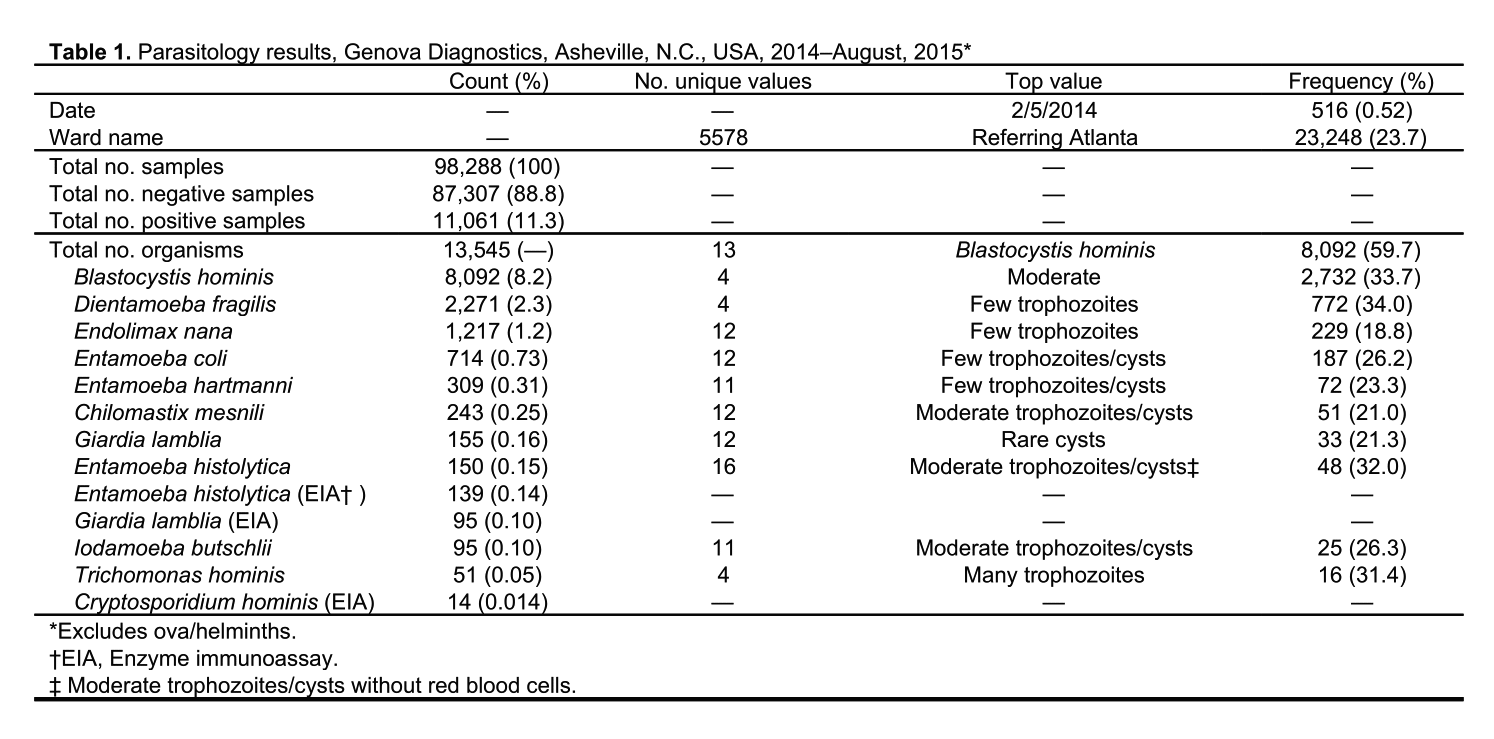
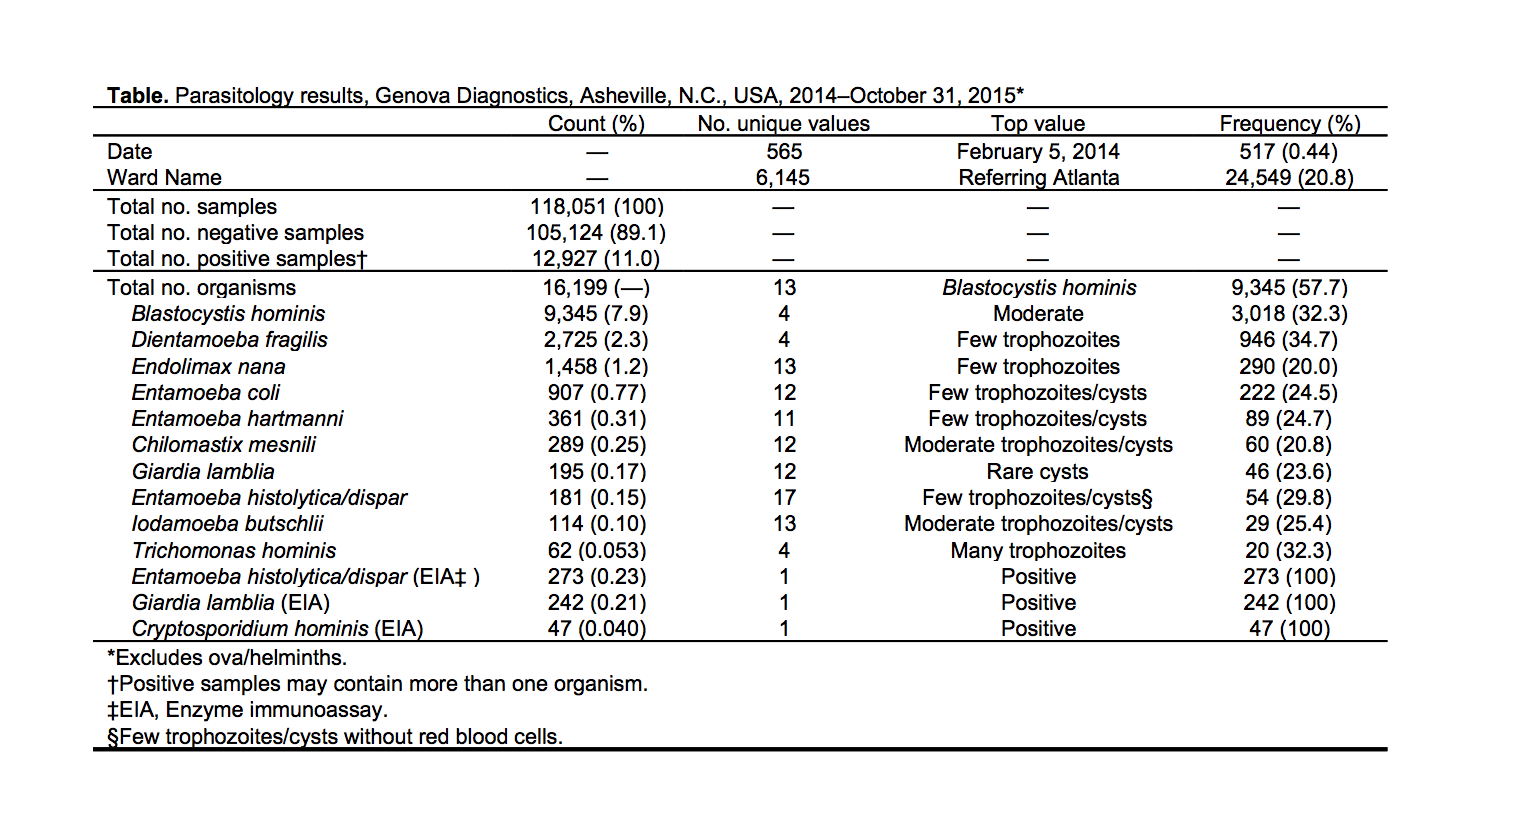
Update

Changed region(s): [[0.0308, 0.0622, 0.9853, 0.9648]]

diff --git a/project/project.html b/project/project.html
@@ -86,10 +86,10 @@
 
     <div class="showcase-list">
 
-        <a href="results/Parasit_Summary_Table-1.png" data-lightbox="table" data-title="Old Parasitology Results Summary Table (the new dataset will include results through October)." class="showcase">
+        <a href="results/Parasit_Summary_Table-1.png" data-lightbox="table" data-title="Parasitology Results Summary Table." class="showcase">
             <div class="image" data-wallpaper="results/Parasit_Summary_Table-1.png">
                 <div class="caption">
-                    <h6><b>Old Results Summary</b></h6>
+                    <h6><b>Results Summary</b></h6>
                     <p>A table showing the absolute number and percentage of parasitology results.</p>
                 </div>
             </div>
